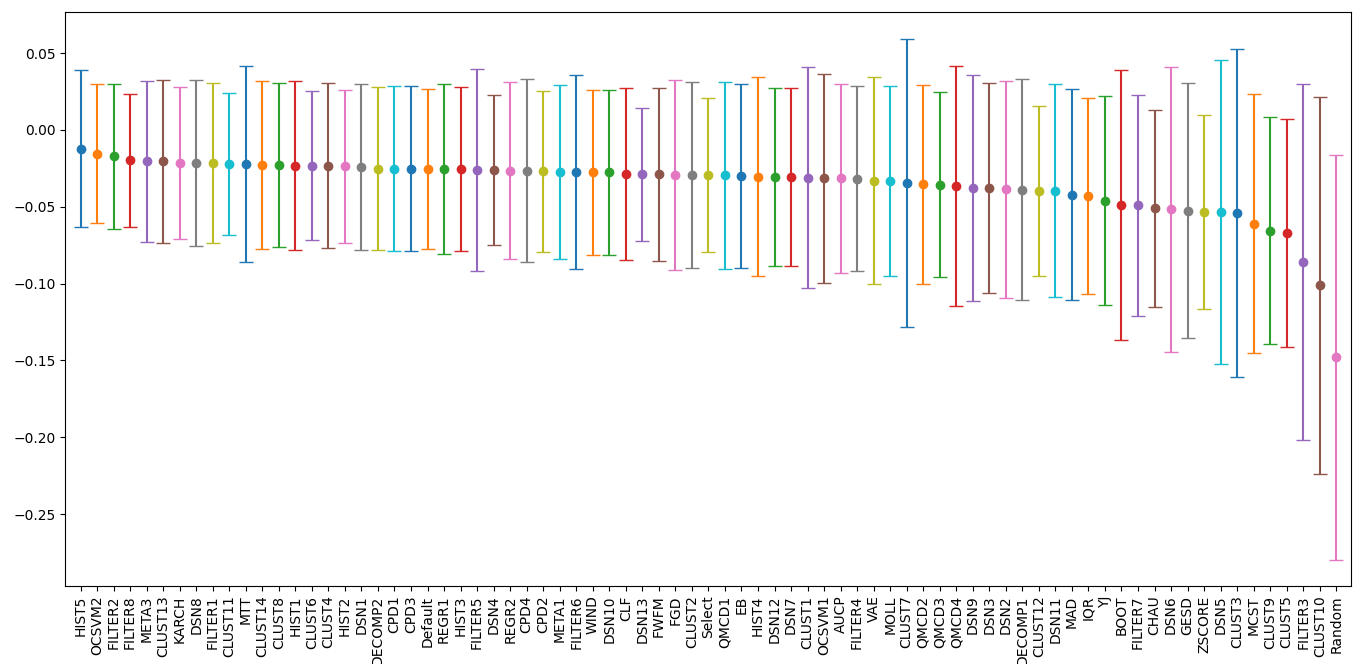
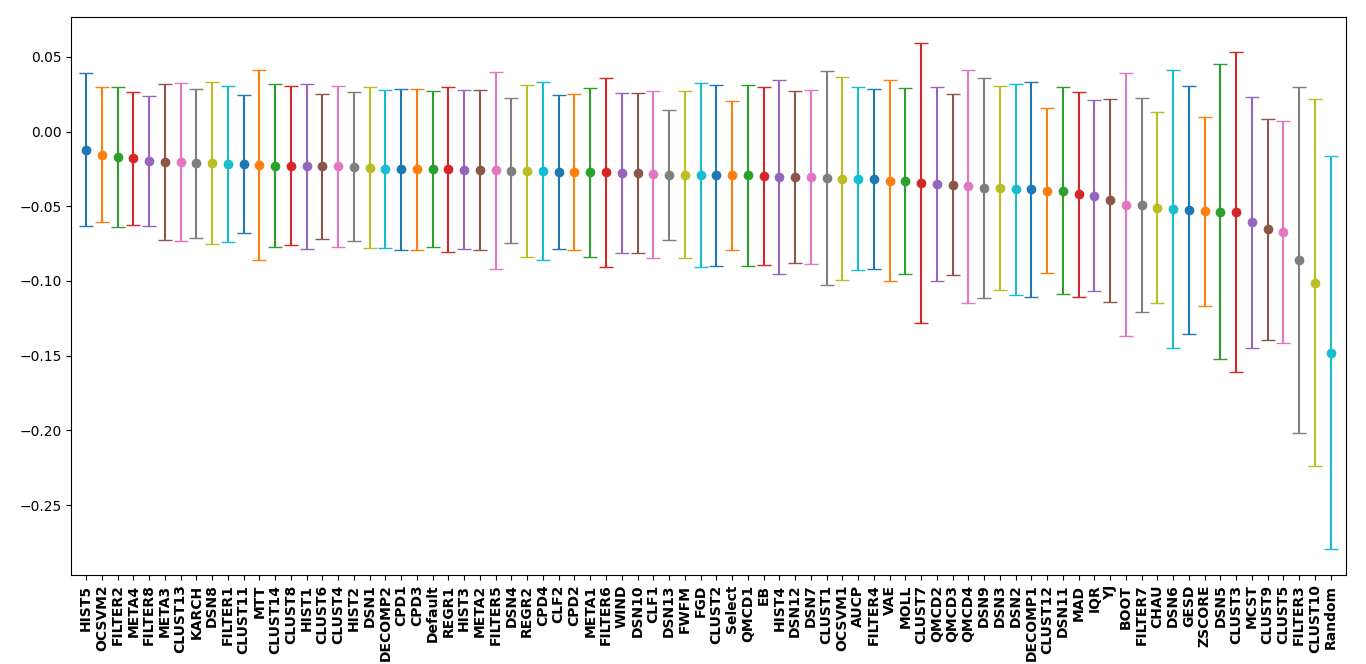
Updated benchmarks

diff --git a/docs/benchmark.rst b/docs/benchmark.rst
@@ -90,10 +90,11 @@ was also calculated if outliers were selected at random (`Random`).
 This was done by setting :math:`MMC_{\rm{norm}} = 1`.
 
 Overall, a significant amount of thresholders performed better than 
-selecting a random contamination level. The ``FILTER`` thresholder 
-performed best while the ``META`` thresholder provided the smallest 
+selecting a random contamination level. The ``META`` thresholder 
+performed best while the ``CLF`` thresholder provided the smallest 
 uncertainty about its mean and is the most robust (best least accurate 
-prediction).
+prediction). However, for interpretability and general performance 
+``FILTER`` is good fit.
 
 .. figure:: figs/Benchmark1.png
    :alt: Benchmark defaults
@@ -236,6 +237,8 @@ dataset with fewer examples and a greater bias.
 | META2         | META(method='GNB')                    |
 +---------------+---------------------------------------+
 | META3         | META(method='GNBC')                   |
++---------------+---------------------------------------+
+| META4         | META(method='GNBM')                   |
 +---------------+---------------------------------------+
 | MOLL          | MOLL()                                |
 +---------------+---------------------------------------+

diff --git a/README.rst b/README.rst
@@ -248,9 +248,10 @@ is made available below
 
 Additional `benchmarking <https://pythresh.readthedocs.io/en/latest/benchmark.html>`_ 
 has been done on all the thresholders and it was
-found that the `FILTER` thresholder performed best while the `META` 
+found that the `META` thresholder performed best while the `CLF` 
 thresholder provided the smallest uncertainty about its mean and is the 
-most robust (best least accurate prediction).
+most robust (best least accurate prediction). However, for interpretability 
+and general performance ``FILTER`` is good fit.
 
 ----
 
